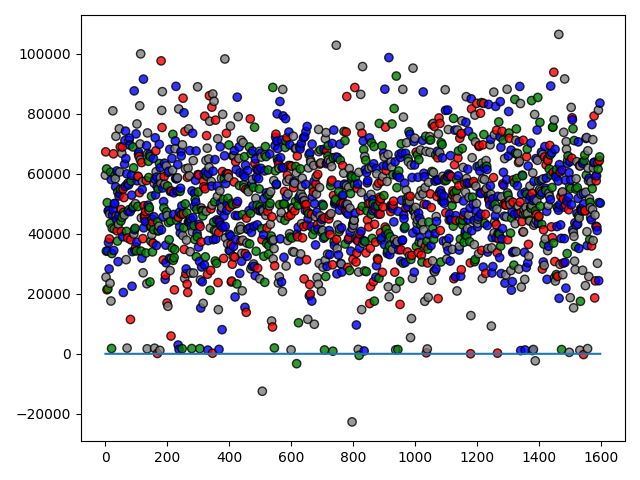
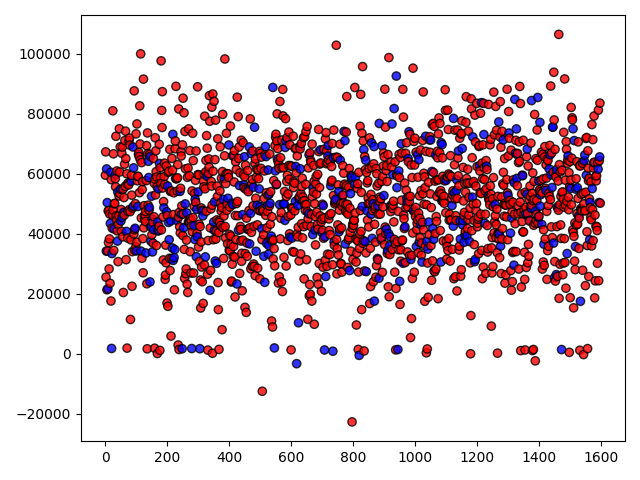
values btw 0 and 1 one house vs all

diff --git a/train.py b/train.py
@@ -49,21 +49,23 @@ def main():
 
     fig, ax = subplots()
 
-    color_map = {0: 'red', 1: 'blue', 2: 'gray', 3: 'green'}
-    colors = [color_map[label] for label in houses]
+    # Ici, faire correspondre des valeurs de 0.1 à 0.9 à des couleurs
+    print("predz", rhs)
+    color_map = {0: 'red', 1: 'blue'}
+    colors = [color_map[round(label)] for label in rhs]
 
     scatter(indexes, lhs, c=colors, alpha=0.8, edgecolor='k')
-    plot(pred)
+
     tight_layout()
     savefig("output_classification_I")
     # Use computed thetas for predictions
 
     ndf = load("dataset_test.csv")
     # Replace NaN with 0
-    ndf = df.fillna(0)
+    ndf = ndf.fillna(0)
 
     # ndf_house = df.iloc[:, [1]]  # Select the 2nd column - house
-    ndf = df.iloc[:, 6:]   # Select courses columns
+    ndf = ndf.iloc[:, 6:]   # Select courses columns
     # ndf = concat([ndf_house, ndf_courses], axis=1)
 
     ntable = []
@@ -96,9 +98,12 @@ def main():
         npred.insert(i, 1 / (1 + (e ** -(unit * weights + bias))))
 
     fig, ax = subplots()
+    # Ici, faire correspondre des valeurs de 0.1 à 0.9 à des couleurs
+    print("npredz", [round(x) for x in npred])
+    ncolors = [color_map[round(x)] for x in npred]
 
-    scatter(nindexes, nlhs, c=colors, alpha=0.8, edgecolor='k')
-    plot(npred)
+    scatter(nindexes, nlhs, c=ncolors, alpha=0.8, edgecolor='k')
+
     tight_layout()
     savefig("output_classification_II")
 

diff --git a/utils.py b/utils.py
@@ -4,11 +4,11 @@ from pandas import DataFrame, read_csv
 def switch_case(case_value) -> int | None:
     match case_value:
         case 'Gryffindor':
-            return 3
-        case 'Ravenclaw':
-            return 2
-        case 'Hufflepuff':
             return 1
+        case 'Ravenclaw':
+            return 0
+        case 'Hufflepuff':
+            return 0
         case 'Slytherin':
             return 0
         case _:
